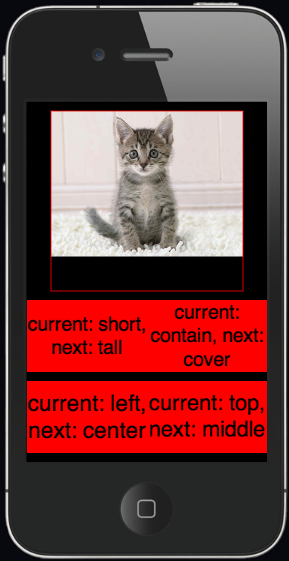
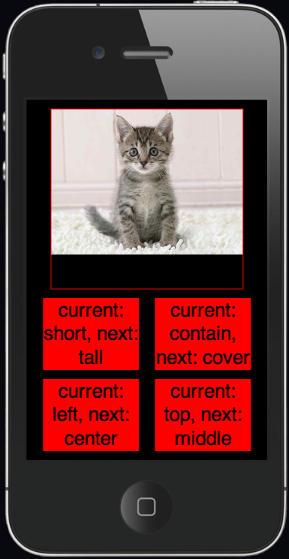
button separation. new screenshot.

diff --git a/src/images/cover-contain/src/Application.js b/src/images/cover-contain/src/Application.js
@@ -31,8 +31,8 @@ exports = Class(GC.Application, function () {
 			superview: this,
 			layout: 'linear',
 			direction: 'horizontal',
-			layoutHeight: '20%',
-			backgroundColor: 'red'
+			justifyContent: 'space-outside',
+			layoutHeight: '20%'
 		});
 
 		// kitty image (tall/short)
@@ -40,8 +40,9 @@ exports = Class(GC.Application, function () {
 		var kittyImage = new TextView({
 			superview: middleView,
 			layout: 'box',
-			wrap: true,
-			flex: 1
+			layoutWidth: '40%',
+			backgroundColor: 'red',
+			wrap: true
 		});
 		var updateKittyImage = function() {
 			isTall = !isTall;
@@ -59,8 +60,9 @@ exports = Class(GC.Application, function () {
 		var coverContain = new TextView({
 			superview: middleView,
 			layout: 'box',
-			wrap: true,
-			flex: 1
+			layoutWidth: '40%',
+			backgroundColor: 'red',
+			wrap: true
 		});
 		var updateCoverContain = function() {
 			isContain = !isContain;
@@ -78,8 +80,8 @@ exports = Class(GC.Application, function () {
 			superview: this,
 			layout: 'linear',
 			direction: 'horizontal',
-			layoutHeight: '20%',
-			backgroundColor: 'red'
+			justifyContent: 'space-outside',
+			layoutHeight: '20%'
 		});
 
 		// horizontal alignment
@@ -93,8 +95,9 @@ exports = Class(GC.Application, function () {
 		var horizontalAlign = new TextView({
 			superview: bottomView,
 			layout: 'box',
-			wrap: true,
-			flex: 1
+			layoutWidth: '40%',
+			backgroundColor: 'red',
+			wrap: true
 		});
 		var updateHAlign = function() {
 			var cur = getHAlign();
@@ -117,8 +120,9 @@ exports = Class(GC.Application, function () {
 		var verticalAlign = new TextView({
 			superview: bottomView,
 			layout: 'box',
-			wrap: true,
-			flex: 1
+			layoutWidth: '40%',
+			backgroundColor: 'red',
+			wrap: true
 		});
 		var updateVAlign = function() {
 			var cur = getVAlign();
